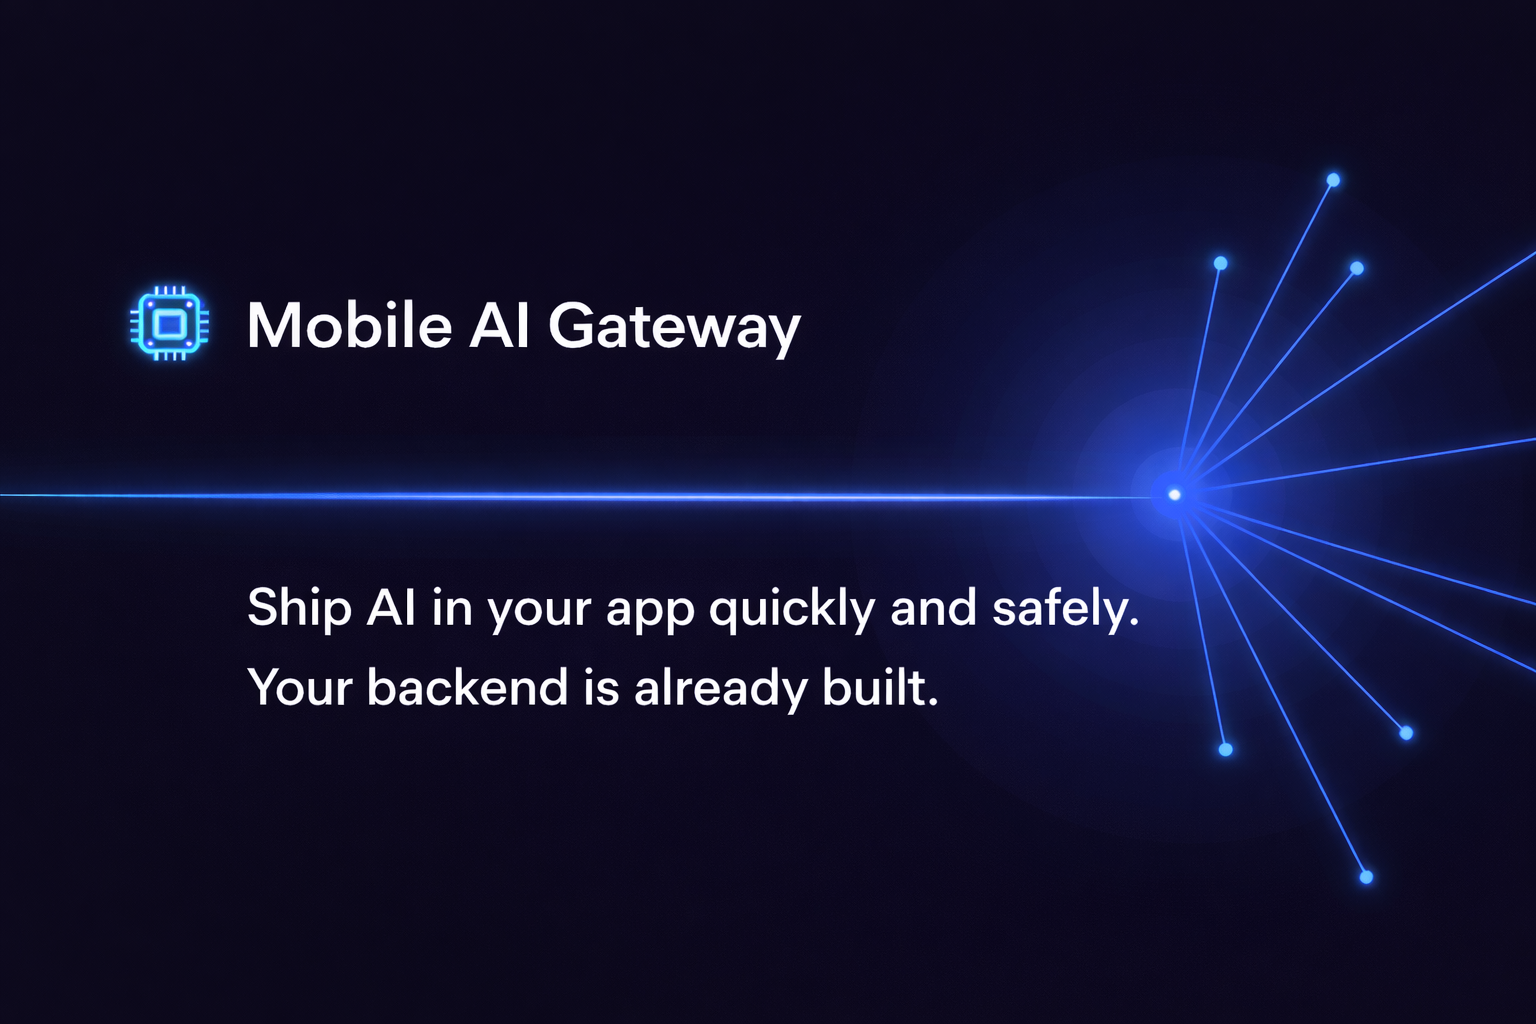
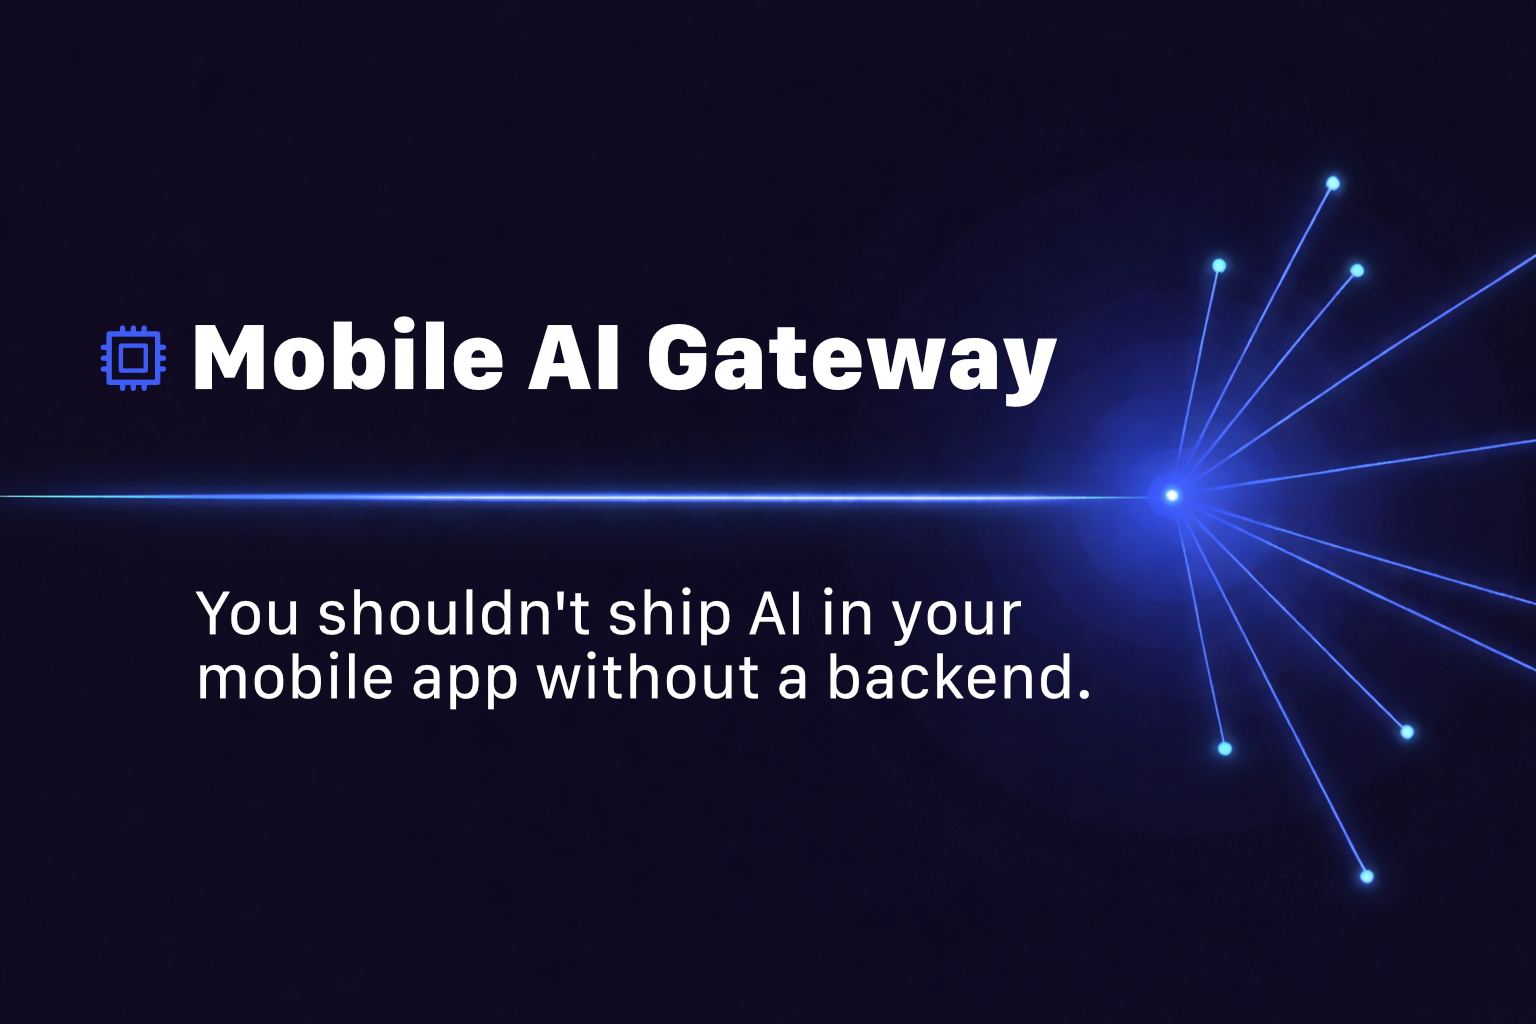
Tweaks the copy

diff --git a/index.html b/index.html
@@ -324,9 +324,13 @@
 
     <div class="hero-content">
       <div class="badge">Mobile AI Gateway</div>
-      <h1>Ship AI in your app quickly and safely. Your backend is already built.</h1>
+      <h1>You shouldn't ship AI in your mobile app without a backend.</h1>
+      <p class="audience-label">Built for iOS and Android developers who want to ship AI features without managing backend infrastructure.</p>
       <p class="subtitle">One SDK. Encrypted key management. Multi-provider routing. Everything you'd build yourself, already built.</p>
-      <a href="https://app.maig.dev" class="btn">Get started free</a>
+      <div class="hero-cta-group">
+        <a href="https://app.maig.dev" class="btn">Get started free</a>
+        <p class="cta-note">2,500 requests/month free — no credit card required</p>
+      </div>
     </div>
   </section>
 
@@ -359,6 +363,15 @@
     </section>
 
     <section>
+      <h2>Built by a developer, for developers.</h2>
+      <div class="founder-note-card">
+        <p class="founder-quote">"I built MAIG because I needed it. Managing provider keys across apps, switching models without shipping an update, getting visibility into what my AI was actually doing in production — none of that existed in a form that worked for native mobile. So I built it."</p>
+        <div class="founder-byline">— Luke, founder of MAIG</div>
+        <p class="founder-cta-text">Building something similar and hitting the same walls? <a href="mailto:lukedavis@maig.dev">I'd like to hear about it.</a></p>
+      </div>
+    </section>
+
+    <section>
       <h2>Up and running in 15 minutes.</h2>
       <ol class="doc-steps">
         <li>
@@ -370,7 +383,7 @@
         <li>
           <div class="step-body">
             <h3>Connect your providers</h3>
-            <p>Add your OpenAI or Anthropic API keys in the dashboard. They're encrypted and stored server-side — never in your app.</p>
+            <p>Add your OpenAI or Anthropic API keys in the dashboard. MAIG encrypts and stores them server-side — your mobile app never holds your provider credentials, only a scoped MAIG project key.</p>
           </div>
         </li>
         <li>
@@ -424,8 +437,8 @@ client.streamText("Tell me a story").collect { token -&gt;
         </div>
         <div class="feature">
           <div class="feature-icon">🔑</div>
-          <h3>Encrypted key storage</h3>
-          <p>Your provider API keys are encrypted at rest and never leave the server. Your app only ever holds a MAIG project key.</p>
+          <h3>Keys off the device</h3>
+          <p>Your provider API keys are encrypted and held server-side by MAIG — not in your app binary where users could extract them. Your mobile app holds only a scoped MAIG project key. Same trust model as Stripe: credentials live with the infrastructure, not with your users.</p>
         </div>
         <div class="feature">
           <div class="feature-icon">📊</div>
@@ -458,6 +471,7 @@ client.streamText("Tell me a story").collect { token -&gt;
             <li class="plan-no">No retry on failure</li>
             <li class="plan-no">No provider fallback</li>
             <li class="plan-no">No request throttling</li>
+            <li class="plan-no">No prompt version history</li>
           </ul>
         </div>
         <div class="plan">
@@ -471,6 +485,7 @@ client.streamText("Tell me a story").collect { token -&gt;
             <li>Dashboard access</li>
             <li>Request logs (14 days)</li>
             <li>Retry on failure (up to 1 retry)</li>
+            <li>Prompt version history (last 5)</li>
             <li>Overage: $0.0008 / request</li>
             <li class="plan-no">No provider fallback</li>
             <li class="plan-no">No request throttling</li>
@@ -488,6 +503,7 @@ client.streamText("Tell me a story").collect { token -&gt;
             <li>Dashboard access</li>
             <li>Request logs (30 days)</li>
             <li>Retry on failure (up to 3 retries)</li>
+            <li>Prompt version history (last 10)</li>
             <li>Provider fallback</li>
             <li>Request throttling &amp; quotas</li>
             <li>Overage: $0.0008 / request</li>
@@ -504,6 +520,7 @@ client.streamText("Tell me a story").collect { token -&gt;
             <li>Dashboard access</li>
             <li>Request logs (90 days)</li>
             <li>Retry on failure (up to 5 retries)</li>
+            <li>Prompt version history (last 15)</li>
             <li>Provider fallback</li>
             <li>Request throttling &amp; quotas</li>
             <li>Overage: $0.0008 / request</li>
@@ -516,15 +533,6 @@ client.streamText("Tell me a story").collect { token -&gt;
     <section>
       <h2>Supported providers</h2>
       <p>MAIG currently supports routing to <strong>OpenAI</strong> (GPT-4o, GPT-4, GPT-3.5), <strong>Anthropic</strong> (Claude 3.5 Sonnet, Claude 3 Haiku, Claude 3 Opus), and <strong>Google</strong> (Gemini 2.0 Flash, Gemini 1.5 Pro).</p>
-    </section>
-
-    <section>
-      <h2>Built by a developer, for developers.</h2>
-      <div class="founder-note-card">
-        <p class="founder-quote">"I built MAIG because I needed it. Managing provider keys across apps, switching models without shipping an update, getting visibility into what my AI was actually doing in production — none of that existed in a form that worked for native mobile. So I built it."</p>
-        <div class="founder-byline">— Luke, founder of MAIG</div>
-        <p class="founder-cta-text">Building something similar and hitting the same walls? <a href="mailto:lukedavis@maig.dev">I'd like to hear about it.</a></p>
-      </div>
     </section>
 
     <section class="cta-section">

diff --git a/prompt-management.html b/prompt-management.html
@@ -210,6 +210,35 @@ val result = client.generateText(messages = messages)</code></pre>
     </div>
 
     <div class="legal-section">
+      <h2>Version history &amp; activation</h2>
+      <p>On Starter, Pro, and Business plans, every save is automatically snapshotted. You can view the full history of a prompt, preview any past version, and activate an older version to make it live — without shipping a new app release.</p>
+
+      <h3>Viewing history</h3>
+      <p>Click <strong>History</strong> on any prompt card to open the version history panel. Each entry shows the version number and the date it was saved.</p>
+
+      <h3>Previewing a version</h3>
+      <p>Click <strong>Preview</strong> next to any version to view its messages in read-only mode. No changes are made until you explicitly activate a version.</p>
+
+      <h3>Activating a version</h3>
+      <p>Click <strong>Activate</strong> (from the history list or from within the preview) and confirm the prompt. Activating creates a <em>new</em> version with the content of the selected snapshot — it does not rewrite history. For example, if the current version is v3 and you activate v1, the prompt becomes v4 with v1's content. You can then edit it further to create v5.</p>
+      <p>After activation, client apps receive the updated content on their next <code>sync()</code> call, exactly as they would after a normal save.</p>
+
+      <h3>Version retention by plan</h3>
+      <table class="doc-table">
+        <thead>
+          <tr><th>Plan</th><th>Version history</th></tr>
+        </thead>
+        <tbody>
+          <tr><td>Free</td><td>Not available</td></tr>
+          <tr><td>Starter</td><td>Last 5 versions</td></tr>
+          <tr><td>Pro</td><td>Last 10 versions</td></tr>
+          <tr><td>Business</td><td>Last 15 versions</td></tr>
+        </tbody>
+      </table>
+      <p>Once the retention limit is reached, the oldest snapshot is automatically removed when a new one is recorded. The active version of a prompt is never affected — only history snapshots are pruned.</p>
+    </div>
+
+    <div class="legal-section">
       <h2>Variable substitution</h2>
       <p>Embed <code>{{VARIABLE_NAME}}</code> placeholders anywhere in a message's <code>content</code> field. At inference time, pass a variables map to <code>getPrompt</code> and the SDK returns new <code>Message</code> objects with the placeholders replaced — the cached template is never modified.</p>
       <p>Variable names must start with a letter or underscore and contain only letters, digits, and underscores (e.g. <code>USER_NAME</code>, <code>productTitle</code>). Names are case-sensitive. If a placeholder key is missing from the supplied map, it is left verbatim in the content so the mismatch is immediately visible.</p>

diff --git a/assets/style.css b/assets/style.css
@@ -198,6 +198,24 @@ li { margin-bottom: 0.3rem; }
   border-radius: 6px;
 }
 
+.hero-cta-group {
+  display: inline-flex;
+  flex-direction: column;
+  align-items: center;
+  gap: 0.5rem;
+}
+
+.cta-note {
+  font-size: 0.82rem;
+  color: var(--muted);
+}
+
+.audience-label {
+  font-size: 0.95rem;
+  color: var(--muted);
+  margin-bottom: 1rem;
+}
+
 /* ── Pricing ── */
 .pricing-grid {
   display: grid;
